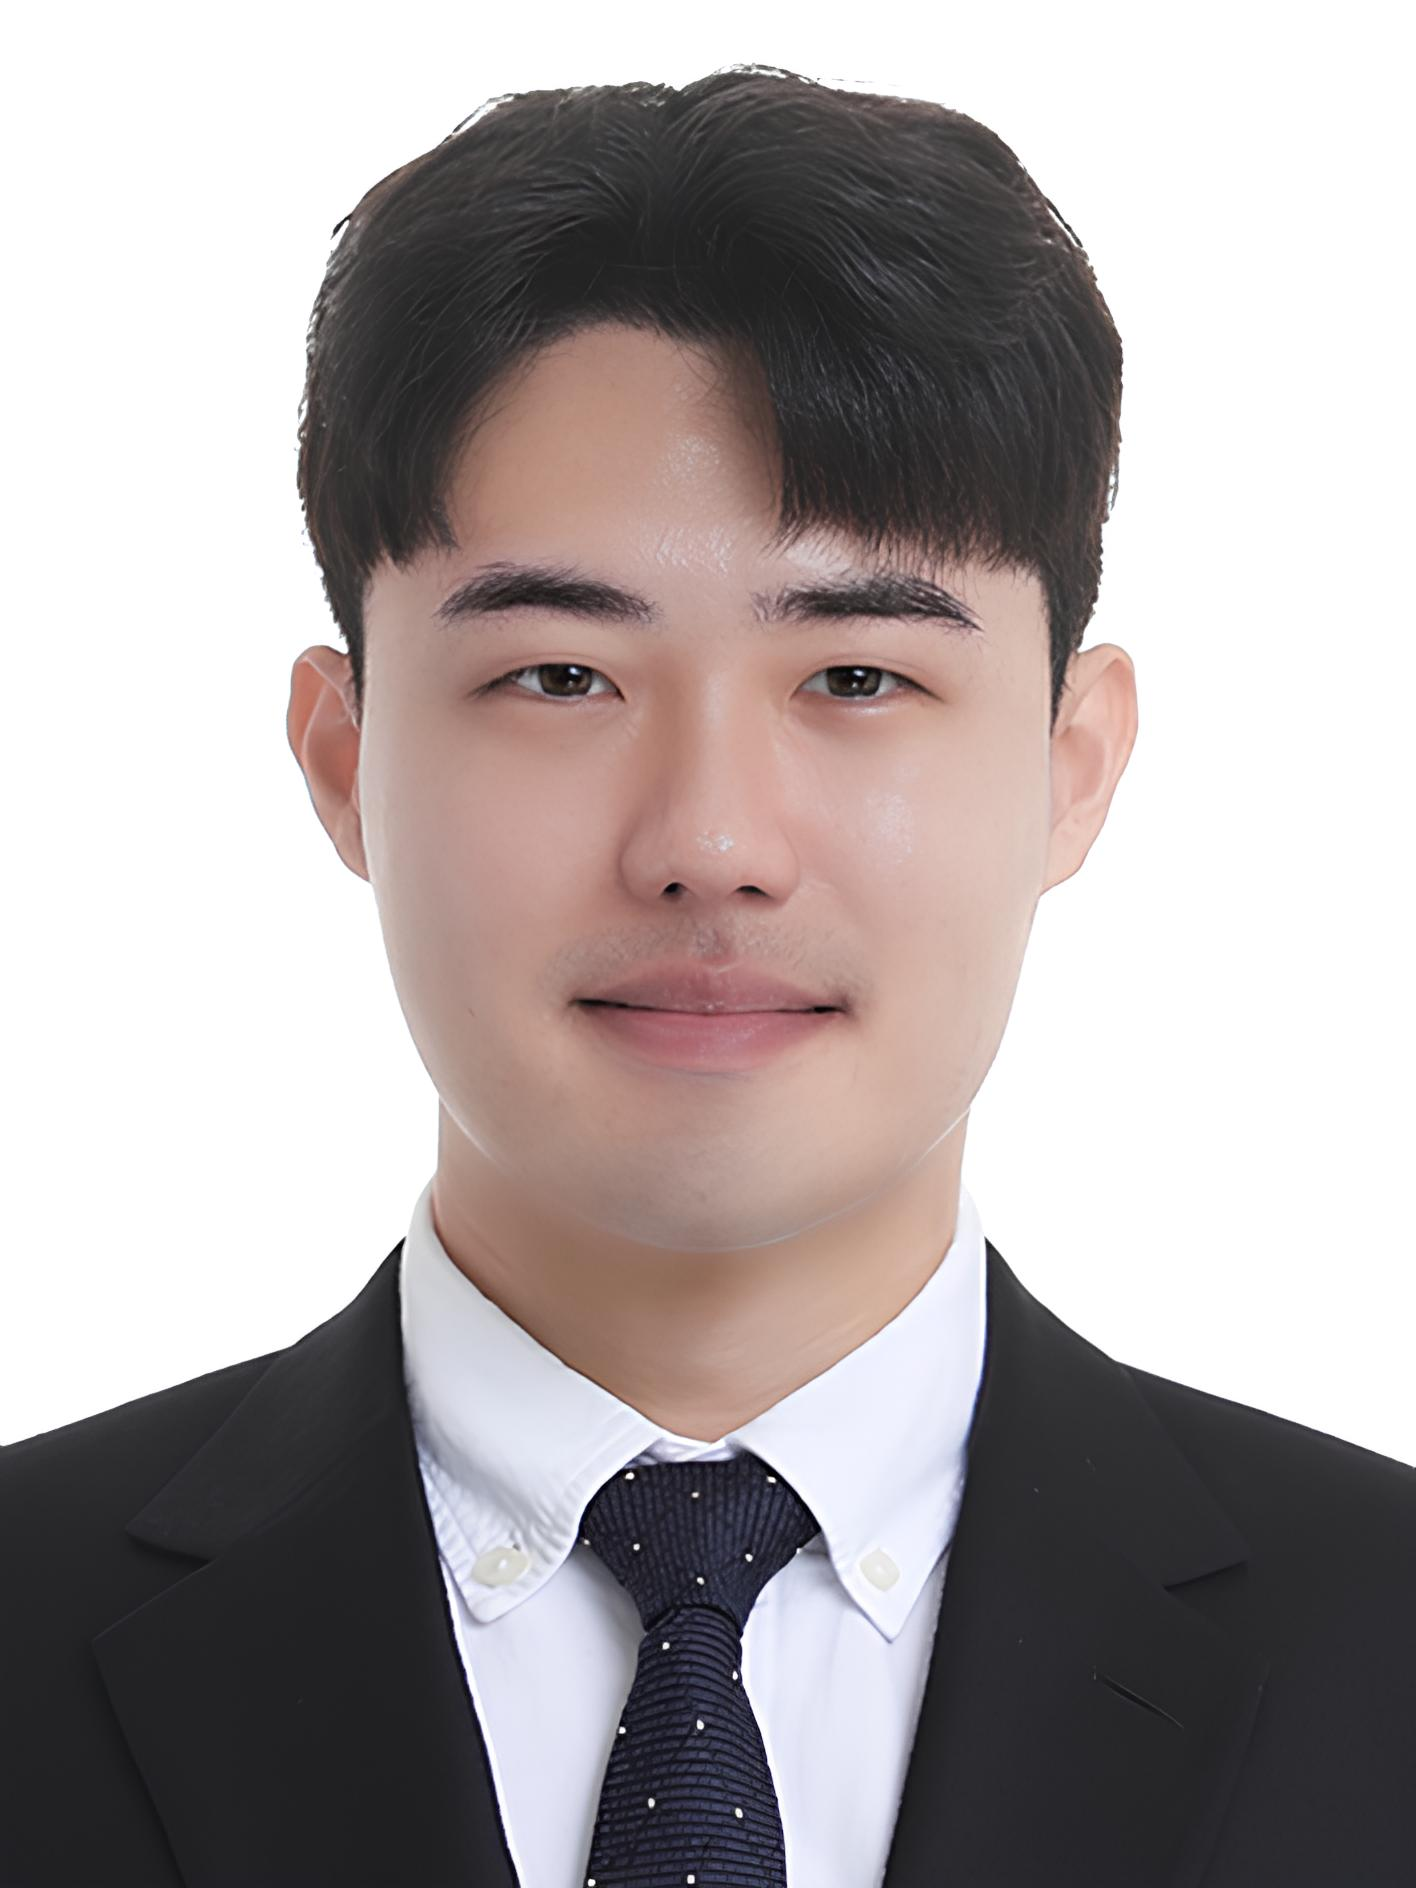
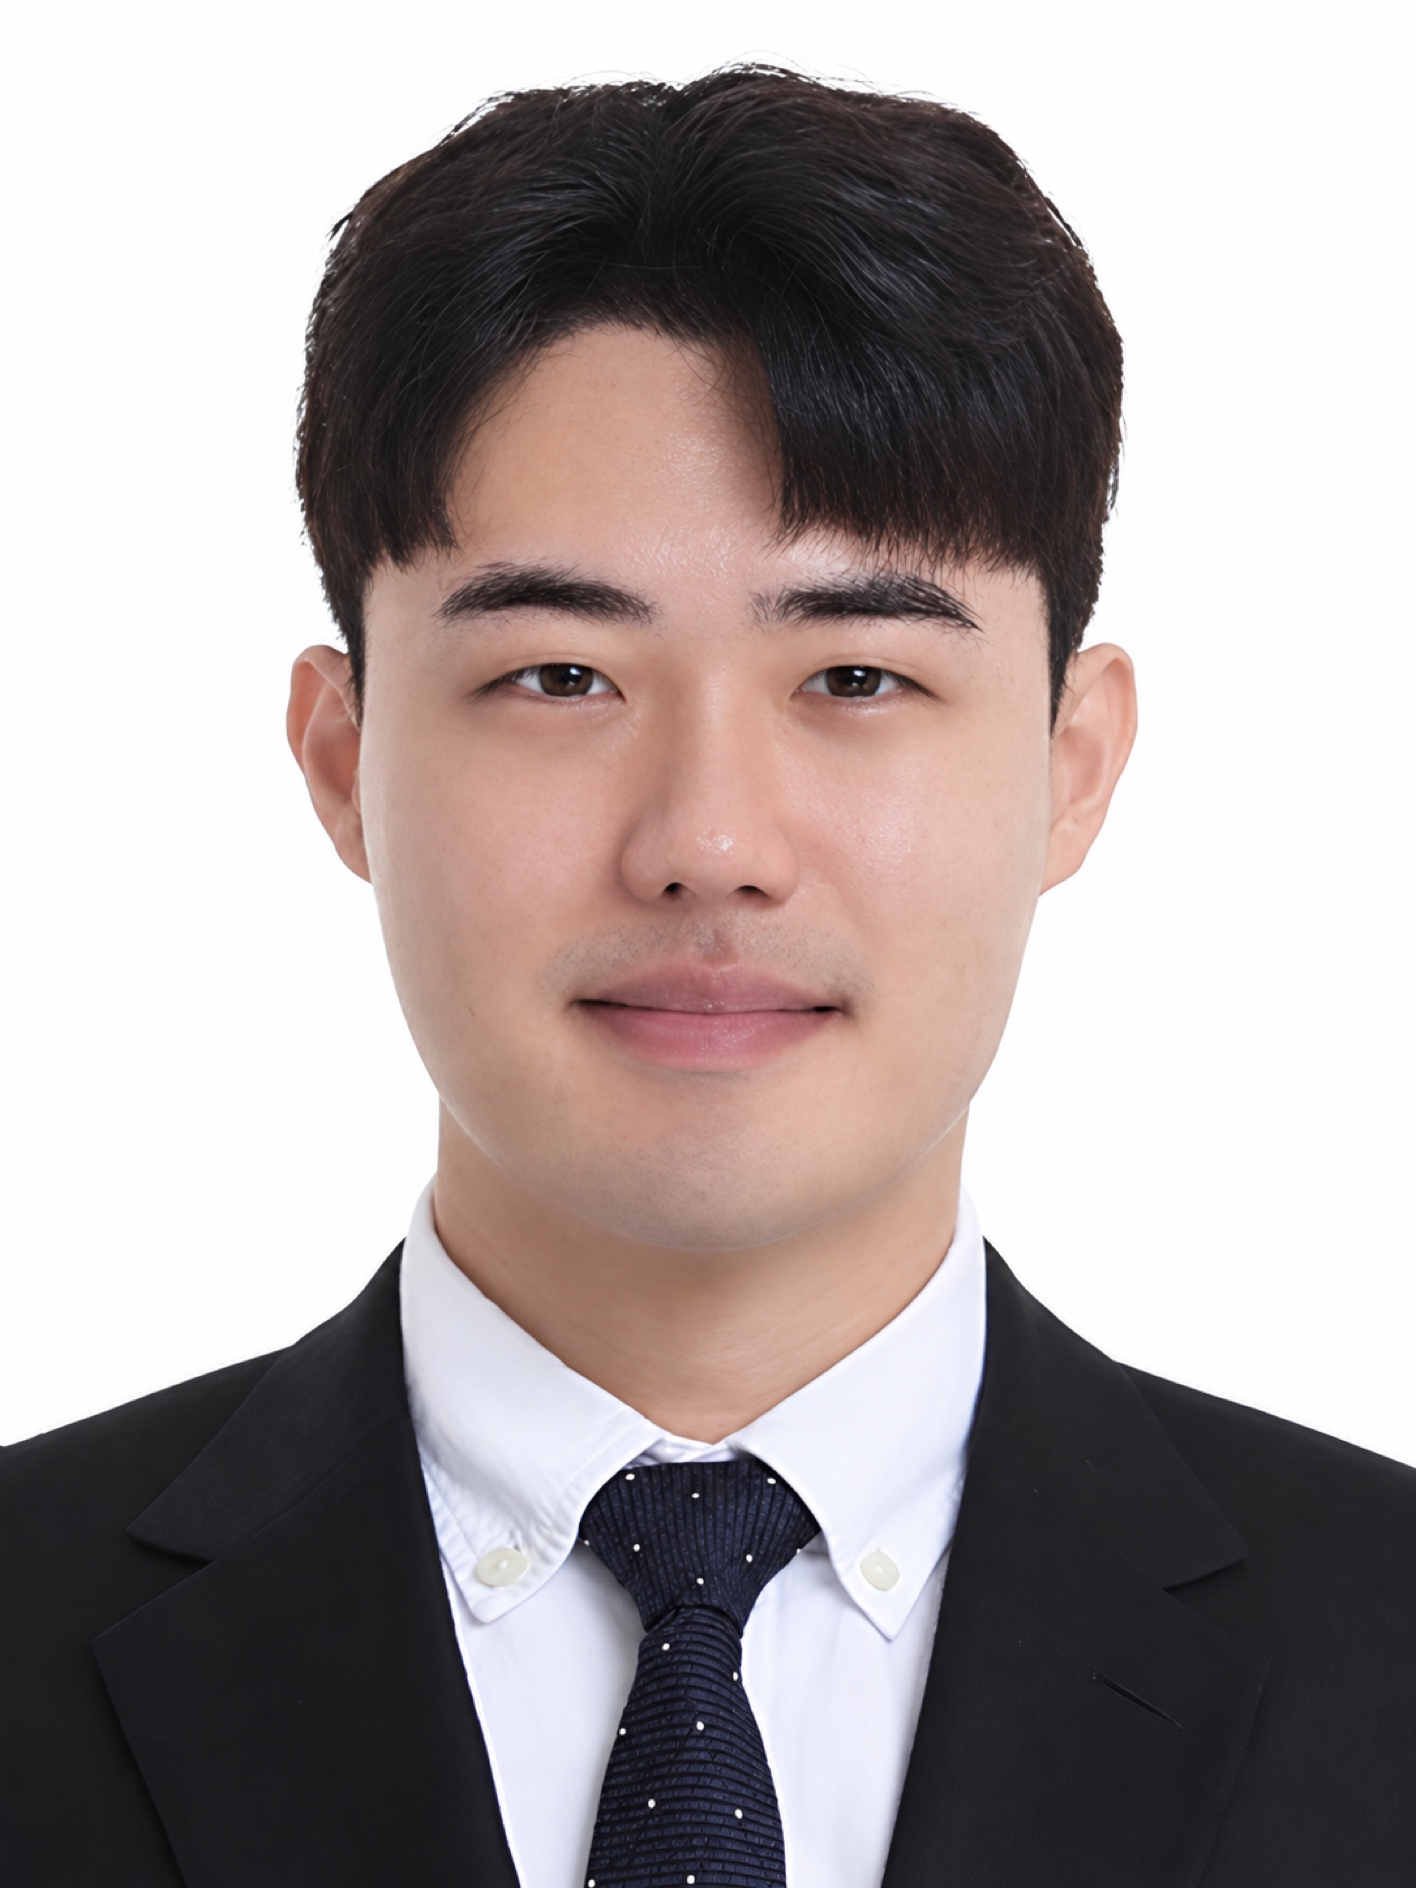
Update portrait with approved natural skin-tone edit

diff --git a/index.html b/index.html
@@ -96,7 +96,7 @@
         </div>
 
         <figure class="portrait-wrap">
-          <img class="portrait" src="assets/profile.jpg" width="1416" height="1888" alt="Portrait of DongJun Lee">
+          <img class="portrait" src="assets/profile.jpg?v=20260930-natural" width="1416" height="1888" alt="Portrait of DongJun Lee">
         </figure>
       </div>
       <div class="hero-rule" aria-hidden="true"></div>
@@ -109,7 +109,7 @@
           <h2 id="about-title">Learning temporal structure, optimizing decisions.</h2>
         </div>
         <div class="intro-copy">
-          <img class="mobile-portrait" src="assets/profile.jpg" width="1416" height="1888" alt="Portrait of DongJun Lee">
+          <img class="mobile-portrait" src="assets/profile.jpg?v=20260930-natural" width="1416" height="1888" alt="Portrait of DongJun Lee">
           <p>I am a PhD student in Industrial Engineering at Georgia Tech, advised by Pascal Van Hentenryck in the NSF AI4OPT Institute. My research focuses on learning-augmented optimization, building on my background in temporal representation learning to connect sequential data and learned models with constrained decisions over time. I develop methods that combine machine learning with mathematical optimization to improve the efficiency and quality of decisions in large-scale constrained systems.</p>
           <p>My current focus is large-scale, multi-period mixed-integer optimization, where discrete and continuous decisions are coupled across time and resources. I study neural solution prediction and structure-aware feasibility repair, with the goal of improving computational efficiency while maintaining feasibility and solution quality.</p>
           <p>My master's research at Seoul National University focused on deep learning for time-series forecasting and anomaly detection, including temporal representations for long-range dependencies and multivariate structure. More broadly, I am interested in learning methods for optimization-based planning and sequential decision-making under complex constraints.</p>
